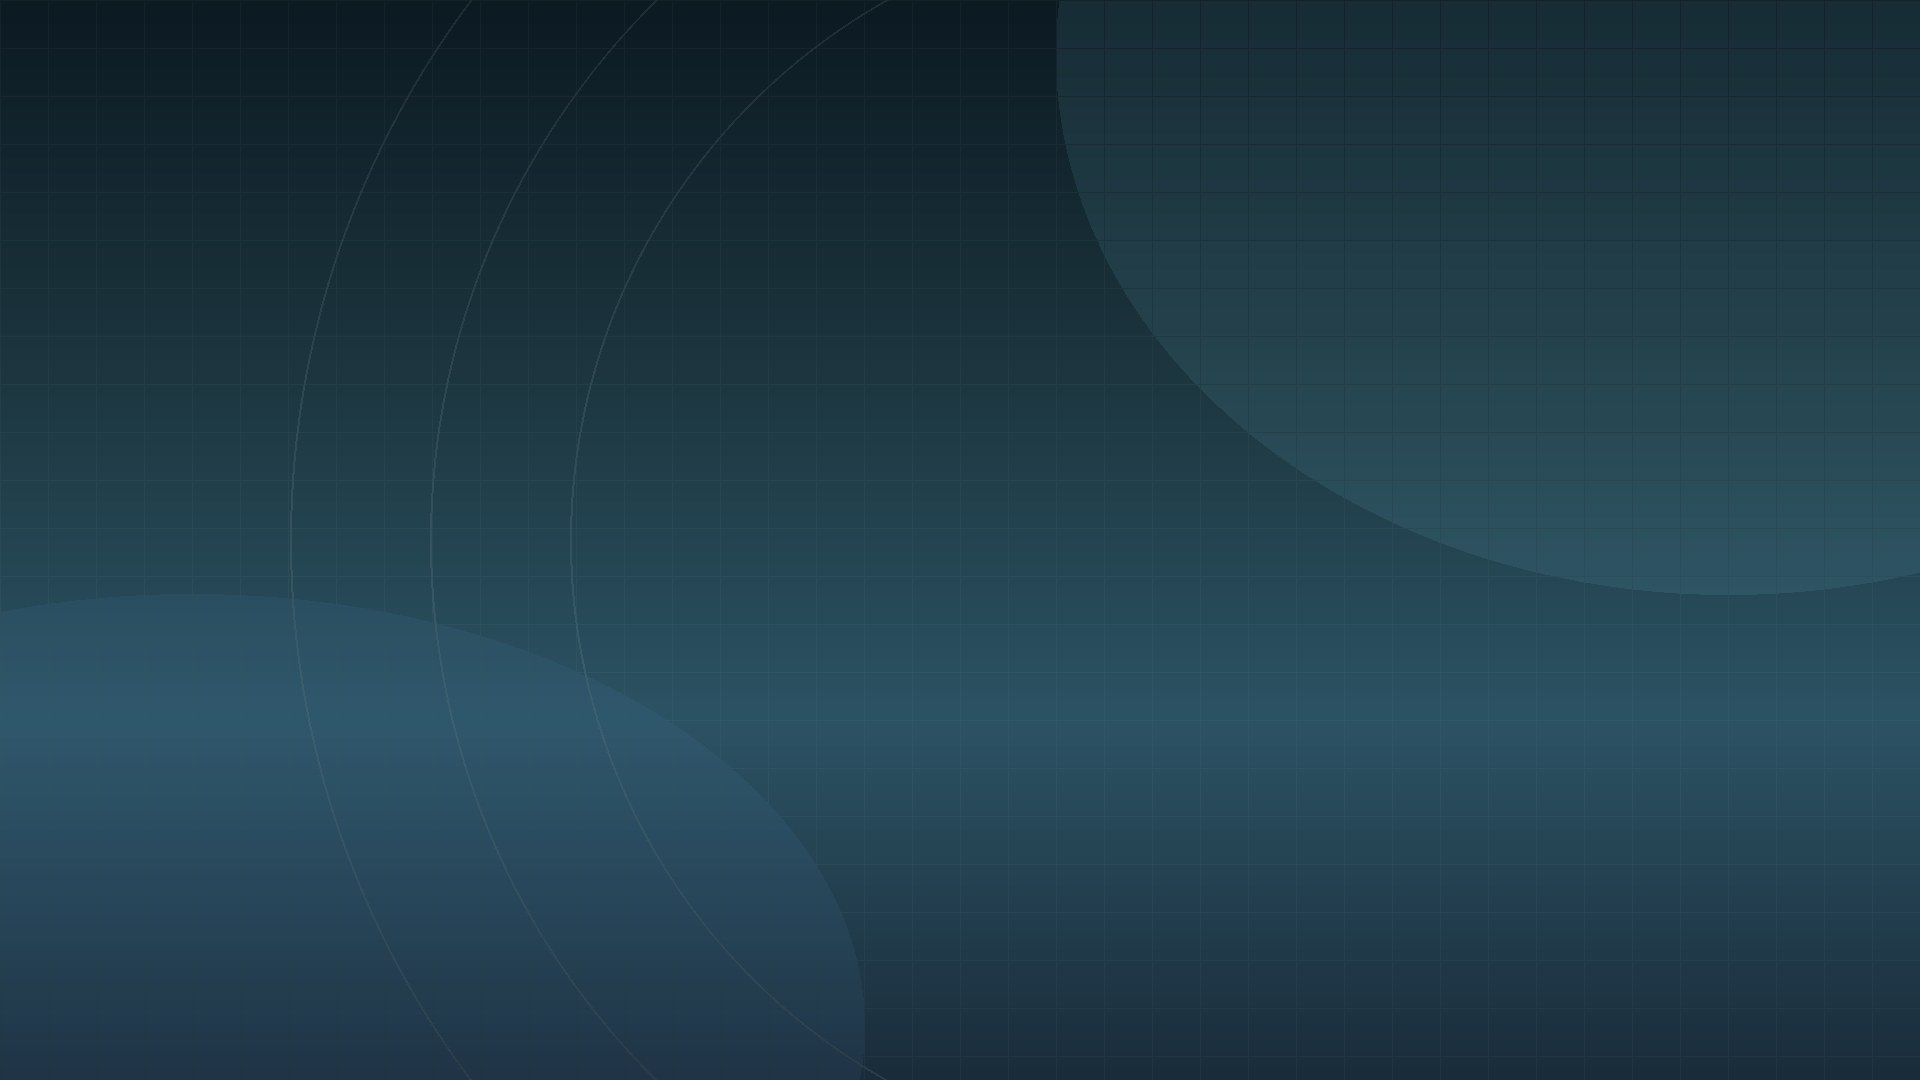
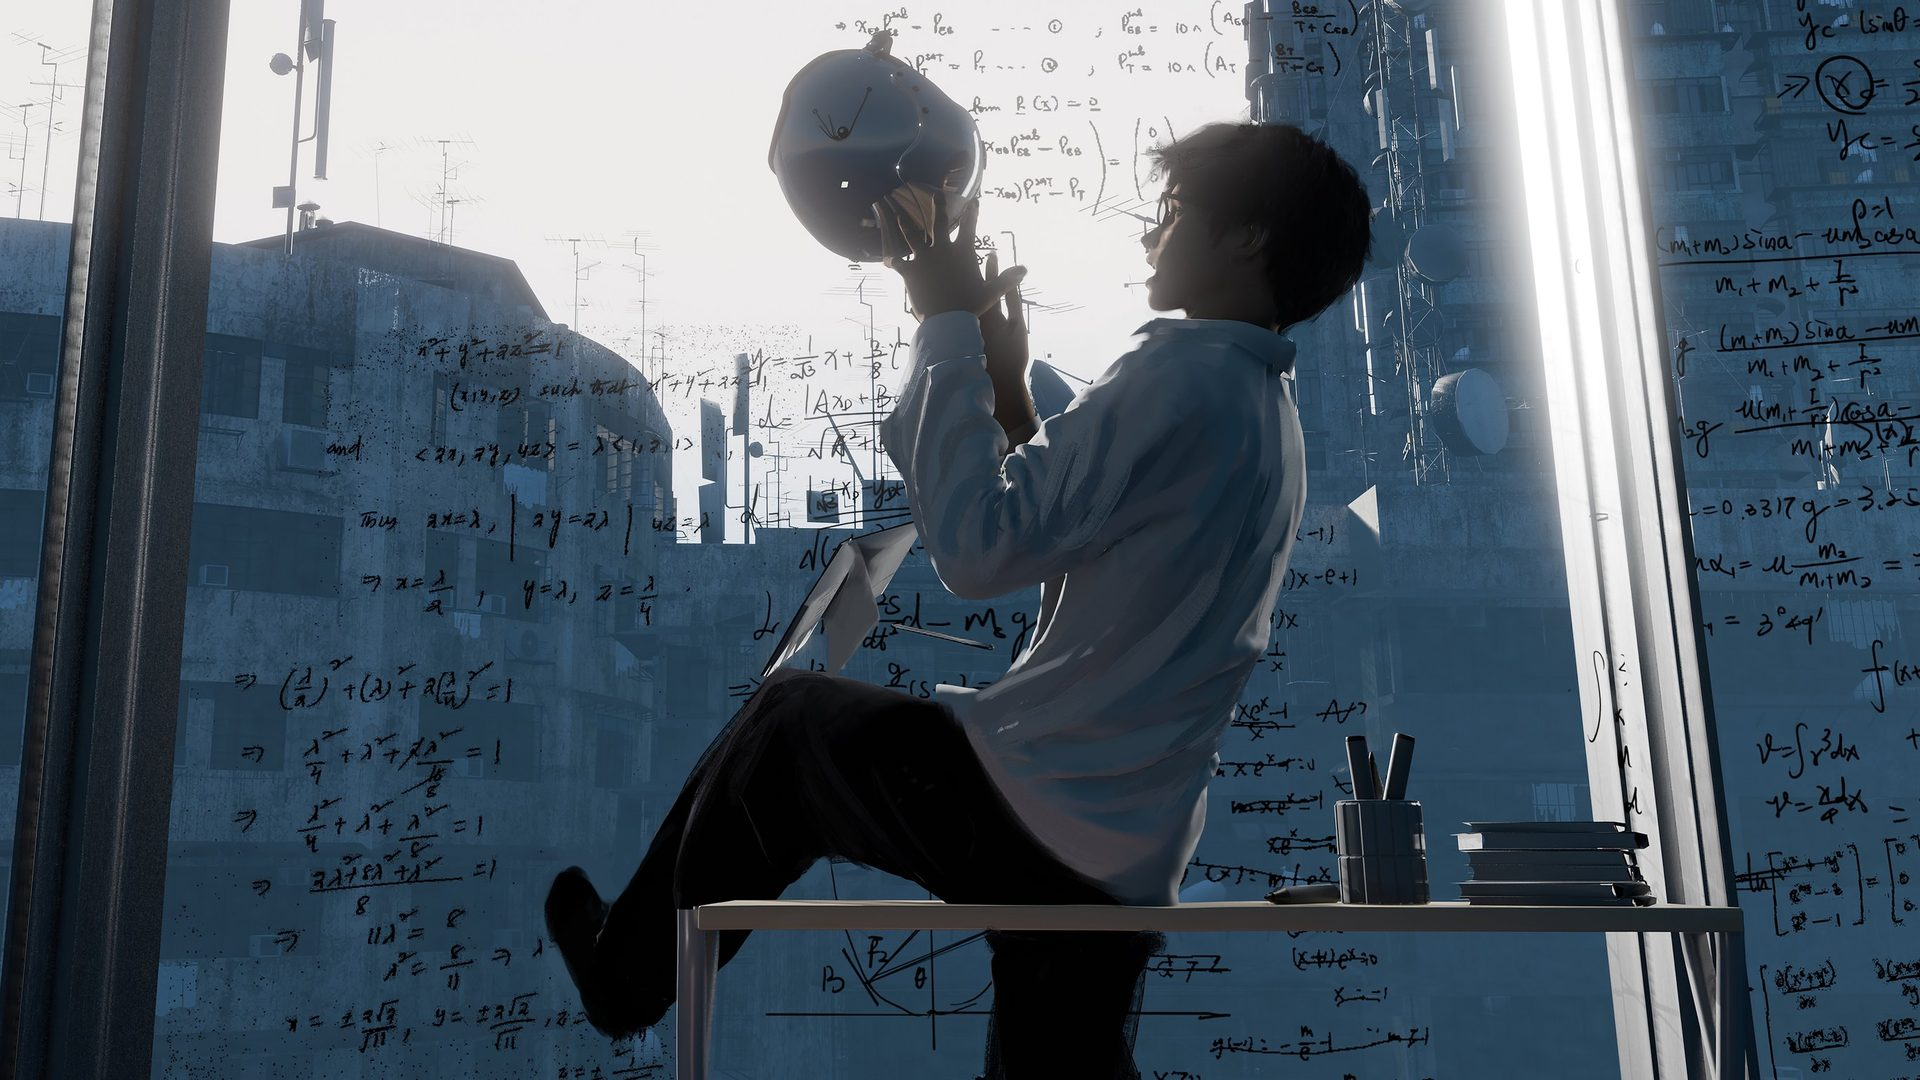
改名 LongFei，换头图，调整遮罩与导航渐变

diff --git a/source/css/custom.css b/source/css/custom.css
@@ -1,0 +1,10 @@
+/* ===================================================
+   自定义样式
+   改这里不需要动主题文件，Hexo 生成时会自动引入。
+   =================================================== */
+
+/* 头图整体偏亮，给顶部导航栏加一层"黑→透明"的渐变，
+   保证导航文字压在亮部时依然看得清。 */
+#navbar {
+  background-image: linear-gradient(to bottom, rgba(0, 0, 0, 0.6), rgba(0, 0, 0, 0));
+}

diff --git a/tools/gen_assets.py b/tools/gen_assets.py
@@ -67,8 +67,8 @@ for r in (620, 760, 900):
            start=115, end=245, fill=(255, 255, 255, 20), width=2)
 
 banner = Image.alpha_composite(banner.convert("RGBA"), layer).convert("RGB")
-banner.save(os.path.join(OUT, "banner.jpg"), quality=88, optimize=True)
+banner.save(os.path.join(OUT, "banner-default.jpg"), quality=88, optimize=True)
 
-for name in ("avatar-slh.png", "favicon.png", "banner.jpg"):
+for name in ("avatar-slh.png", "favicon.png", "banner-default.jpg"):
     p = os.path.join(OUT, name)
     print(f"{name:12s} {os.path.getsize(p)/1024:8.1f} KB")

diff --git a/source/about/index.md b/source/about/index.md
@@ -4,7 +4,7 @@ layout: about
 date: 2026-11-01 20:00:00
 ---
 
-你好，我是孙隆辉。
+你好，我是 LongFei。
 
 南方科技大学硕士研究生，同时是深圳理工大学 2026 级研究生，在**中国科学院深圳先进技术研究院医工所**做研究。方向是**脑机接口**，具体一点说，是用 fMRI 做脑信息解码——从大脑的血氧信号里，把"这个人正在想什么"读出来一点。
 
@@ -15,7 +15,6 @@ date: 2026-11-01 20:00:00
 ## 联系方式
 
 - GitHub：[LongFei32](https://github.com/LongFei32)
-- 邮箱：slh13686020647@163.com
 
 ## 关于本站
 
